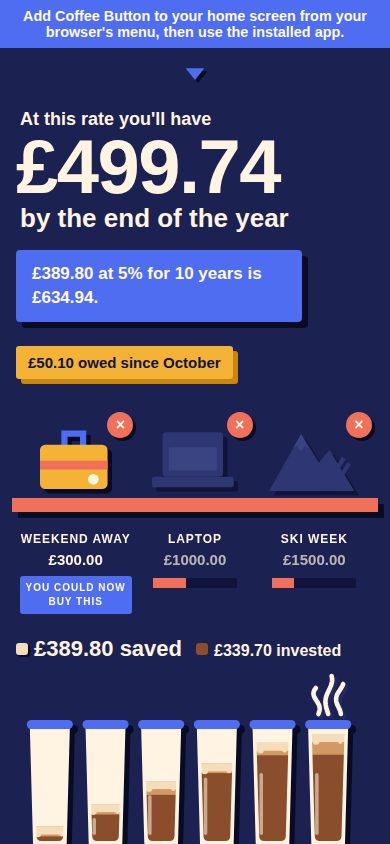
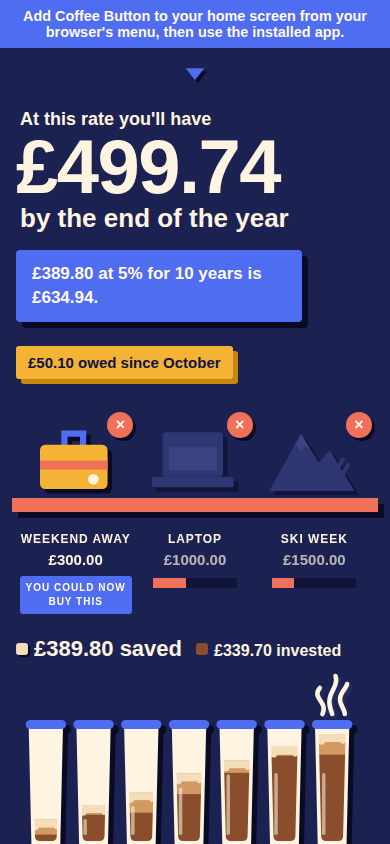
Ticket 33: seven-even-glasses rule in the ticket; screenshots re-taken, fifty days replaces first monthly

Changed region(s): [[0.0615, 0.8009, 0.9231, 1.0]]

diff --git a/.scratch/coffee-button/issues/33-latte-graph.md b/.scratch/coffee-button/issues/33-latte-graph.md
@@ -2,13 +2,7 @@
 
 **What to build:** Under the single plank, the shelf shows savings over time as a row of latte glasses standing on a cobalt tray: Tom's pick, "Graph 1", from the third round of the mockup (`mockups/pictures-and-graph.html`, function `graph1`, with its `tumbler`, `drink` and `steam` helpers; screenshots `.scratch/coffee-button/shots/27v3-*-02.png` and `-03.png`). One glass per period, oldest on the left, today on the right. Every glass is the same size; each is filled to the running total saved by the end of its period, measured against today's total, so the glasses fill up from left to right. In each glass the top of the cream froth marks the total saved; under the froth, dark brown coffee is what had been invested and light brown latte is what was saved and still waiting, split in proportion so the froth never hides the latte. Steam curls off the newest glass.
 
-Periods, so there are never more than seven glasses:
-
-- up to 7 days since the first press: one glass per day (always seven, because the series always spans at least seven days);
-- after that, up to 7 weeks: one glass per week, the last one being this week so far;
-- after that: one glass per calendar month, the last one being this month so far, showing the most recent seven months.
-
-The weekly stage is not in the mockup; it is here so the graph does not collapse to one or two monthly glasses on day eight. The seven-glass limit and the weekly stage are the builder's proposal for Tom to confirm.
+Always seven glasses: the days since the first press, at least seven, are shared out evenly among them, so early on each glass is a day and later each is a few weeks. When the days do not divide by seven, the oldest glasses take one day more. The graph always runs from the first press to today. (This replaced a daily, then weekly, then monthly rule that fell from seven glasses to two on day eight.)
 
 The only labels are "£X saved" and "£Y invested" above the glasses, and under the tray the first glass's month on the left ("Jun") and "today" on the right: no gridlines, no axis numbers, nothing to tap. When the shelf opens the glasses fill once from the bottom, like a pour, then stay still; with reduced motion switched on they simply appear full. The graph shows from the first press and is absent before it.
 
@@ -18,9 +12,9 @@ Tester feedback 2026-11-17 ("Add a graph of savings and amounts invested over ti
 
 **Blocked by:** 27 (Mockup page: the graph pick), 30 (Targets: one plank, which frees the space), 32 (Savings over time, as numbers).
 
-**Status:** built (domain in `src/domain/latte-graph.ts`, art and glue in `src/ui/latte-graph.ts`; screenshots `.scratch/coffee-button/shots/33-*.png`); waiting for Tom's device check and his word on the seven-glass limit and the weekly stage
+**Status:** built (domain in `src/domain/latte-graph.ts`, art and glue in `src/ui/latte-graph.ts`; screenshots `.scratch/coffee-button/shots/33-*.png`); built with the seven-even-glasses rule; awaiting Tom's device check
 
-- [x] A pure function turns the savings series into the glasses' periods: seven daily glasses for the first week, weekly glasses up to seven weeks, then the most recent seven calendar months; each carries the running saved and invested totals at the end of its period; unit tested, failing first
+- [x] A pure function turns the savings series into the glasses' periods: always seven glasses, the series' days shared out evenly in order (sizes differ by at most one, the oldest glasses longest), from the first day to today; each carries the running saved and invested totals at the end of its period; unit tested, failing first
 - [x] A pure function turns each period into its fill levels for a given glass height: the froth top at saved over today's total, coffee and latte split in proportion under the froth; the last glass is always full; unit tested
 - [x] A glass with nothing invested shows latte and froth only; a period with nothing saved yet shows an empty glass (unit tested)
 - [x] The labels read "£X saved" and "£Y invested" from the same figures as the series, pence shown when there are any, "£0 invested" shown before the first invest; the first glass's month and "today" underneath
